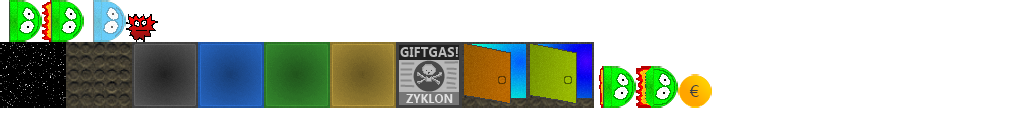
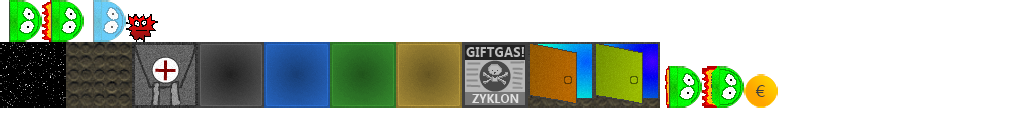
added medi packs and over HP.

Changed region(s): [[0.125, 0.3125, 0.7812, 0.8438]]

diff --git a/src/com/andreschnabel/deathjam/World.java b/src/com/andreschnabel/deathjam/World.java
@@ -10,10 +10,7 @@ import com.badlogic.gdx.graphics.g2d.TextureAtlas.AtlasRegion;
 import com.badlogic.gdx.graphics.g2d.TextureRegion;
 import com.badlogic.gdx.math.*;
 
-import java.util.ArrayList;
-import java.util.HashMap;
-import java.util.LinkedList;
-import java.util.List;
+import java.util.*;
 import java.util.regex.Matcher;
 import java.util.regex.Pattern;
 
@@ -24,32 +21,36 @@ public class World {
 	private static final int COIN_VALUE = 100;
 	private static final float COIN_WOBBLE_DIST_X = 2.0f;
 	private static final float COIN_WOBBLE_DIST_Y = 4.0f;
+	private static final int MEDPACK_VALUE = 50;
 	private char[][] grid;
 	public int gridW;
 	public int gridH;
 	
 	private List<AtlasRegion> tileRegions;
-	private AtlasRegion coinRegion;
+	private final TextureRegion coinRegion;
 	private HashMap<Character, Integer> charToRegionMap;
 	public Vector2 playerStart = new Vector2();
 	public Vector2 scrollStart = new Vector2();
-	private List<Enemy> enemies = new ArrayList<Enemy>();
-	private AtlasRegion enemyRegion;
+	private final List<Enemy> enemies = new ArrayList<Enemy>();
+	private final TextureRegion enemyRegion;
 
-	private List<Rectangle> coinRects = new ArrayList<Rectangle>();
+	private final List<Rectangle> coinRects = new ArrayList<Rectangle>();
 
 	private SpriteCache sc;
 	private int cacheId;
 	private final SpriteBatch sb;
 
-	private TextureRegion floorRegion;
+	private final TextureRegion floorRegion;
+	private final TextureRegion medpackRegion;
+
 	private boolean inDeathWorld;
-	private Color brightRed = new Color(1.0f, 0.4f, 0.4f, 1.0f);
+	private final Color brightRed = new Color(1.0f, 0.4f, 0.4f, 1.0f);
 	private final Sound coinSnd;
 	private final Music aliveLoop;
 	private final Music deadLoop;
 	private int curWorldNum;
-	private List<CollectAnim> collectAnims = new ArrayList<CollectAnim>();
+	private final List<CollectAnim> collectAnims = new ArrayList<CollectAnim>();
+	private final List<Vector2> medpackPositions = new ArrayList<Vector2>();
 
 	public World() {
 		initCharToRegionMap();
@@ -63,6 +64,8 @@ public class World {
 		enemyRegion = Globals.atlas.findRegion("enemy");
 
 		floorRegion = Globals.atlas.findRegion("floor");
+
+		medpackRegion = Globals.atlas.findRegion("medpack");
 
 		deadLoop = Gdx.audio.newMusic(Utils.assetHandle("deadloop.mp3"));
 		deadLoop.setLooping(true);
@@ -141,6 +144,7 @@ public class World {
 		coinRects.clear();
 		enemies.clear();
 		collectAnims.clear();
+		medpackPositions.clear();
 
 		String worldStr = Utils.assetHandle(filename).readString();
 		String[] lines = worldStr.split("\n");
@@ -187,6 +191,10 @@ public class World {
 					case 'Z': // TODO: Idea show goal first and scroll back to player using reverse A* path
 						//scrollStart.x = xPosition - Globals.VSCR_W / 2.0f;
 						//scrollStart.y = yPosition - Globals.VSCR_H / 2.0f;
+						break;
+					case 'm':
+						c = ' ';
+						medpackPositions.add(new Vector2(xPosition, yPosition));
 						break;
 				}
 
@@ -272,6 +280,10 @@ public class World {
 
 		collectAnims.removeAll(expiredAnims);
 
+		for(Vector2 mpPos : medpackPositions) {
+			sb.draw(medpackRegion, mpPos.x, mpPos.y);
+		}
+
 		sb.end();
 	}
 
@@ -323,6 +335,24 @@ public class World {
 			}
 		}
 		coinRects.removeAll(toDel);
+		return collectedAmount;
+	}
+
+	public int tryCollectMedpack(Rectangle playerRect) {
+		int collectedAmount = 0;
+		Rectangle rect = new Rectangle(0, 0, TILE_W, TILE_H);
+		List<Vector2> toDel = new LinkedList<Vector2>();
+		for(Vector2 mpPos : medpackPositions) {
+			rect.x = mpPos.x;
+			rect.y = mpPos.y;
+			if(Intersector.overlapRectangles(rect, playerRect)) {
+				collectedAmount += MEDPACK_VALUE;
+				if(collectedAmount > 200) collectedAmount = 200;
+				toDel.add(mpPos);
+				collectAnims.add(new CollectAnim(mpPos, medpackRegion));
+			}
+		}
+		medpackPositions.removeAll(toDel);
 		return collectedAmount;
 	}
 

diff --git a/src/com/andreschnabel/deathjam/Player.java b/src/com/andreschnabel/deathjam/Player.java
@@ -23,6 +23,7 @@ public class Player {
 	private static final long SHIELD_INCR_DELAY = 1000;
 	private static final long SHIELD_DECR_DELAY = 500;
 	private static final long MIN_HIT_DELAY = 1000;
+	private static final long OVERHP_DECR_DELAY = 1000;
 
 	public Vector2 inertia = Vector2.Zero.cpy();
 
@@ -231,6 +232,19 @@ public class Player {
 		playerSpr.setRegion(playerRegions.get(regionIndex));
 
 		score += world.tryCollectCoin(playerSpr.getBoundingRectangle());
+		hp += world.tryCollectMedpack(playerSpr.getBoundingRectangle());
+
+		updateHp();
+	}
+
+	private long lastHpDecr = Utils.getTicks();
+
+
+	private void updateHp() {
+		if(hp > 100 && Utils.getTicks() - lastHpDecr > OVERHP_DECR_DELAY) {
+			hp--;
+			lastHpDecr = Utils.getTicks();
+		}
 	}
 
 	public Rectangle getRect() {

diff --git a/src/com/andreschnabel/deathjam/DeathGame.java b/src/com/andreschnabel/deathjam/DeathGame.java
@@ -104,6 +104,11 @@ public class DeathGame implements ApplicationListener {
 
 		if(player.gameover) return;
 
+		processKeyboard();
+		processGamepad();
+	}
+
+	private void processKeyboard() {
 		if(Gdx.input.isKeyPressed(Keys.LEFT)) {
 			player.move(-1, 0);
 		}
@@ -120,7 +125,9 @@ public class DeathGame implements ApplicationListener {
 		if(Gdx.input.isKeyPressed(Keys.SPACE)) {
 			player.useShield();
 		}
+	}
 
+	private void processGamepad() {
 		for(Controller controller : Controllers.getControllers()) {
 			final float MOV_THRESHOLD = 0.25f;
 			float xaxis = controller.getAxis(1);
